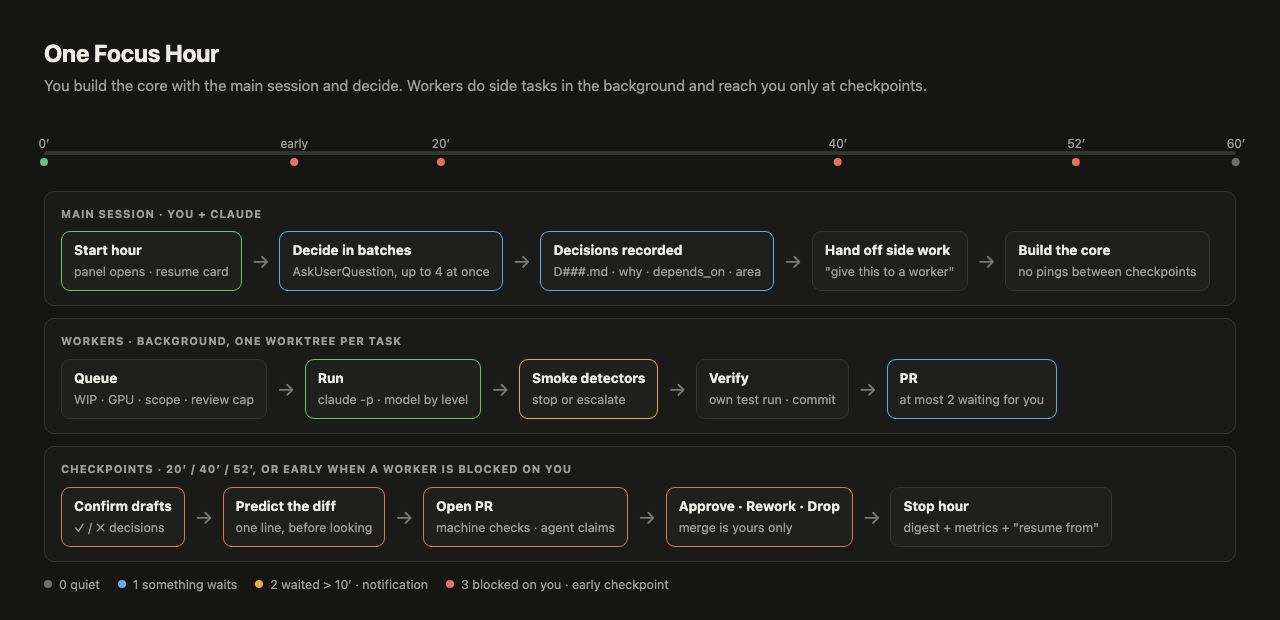
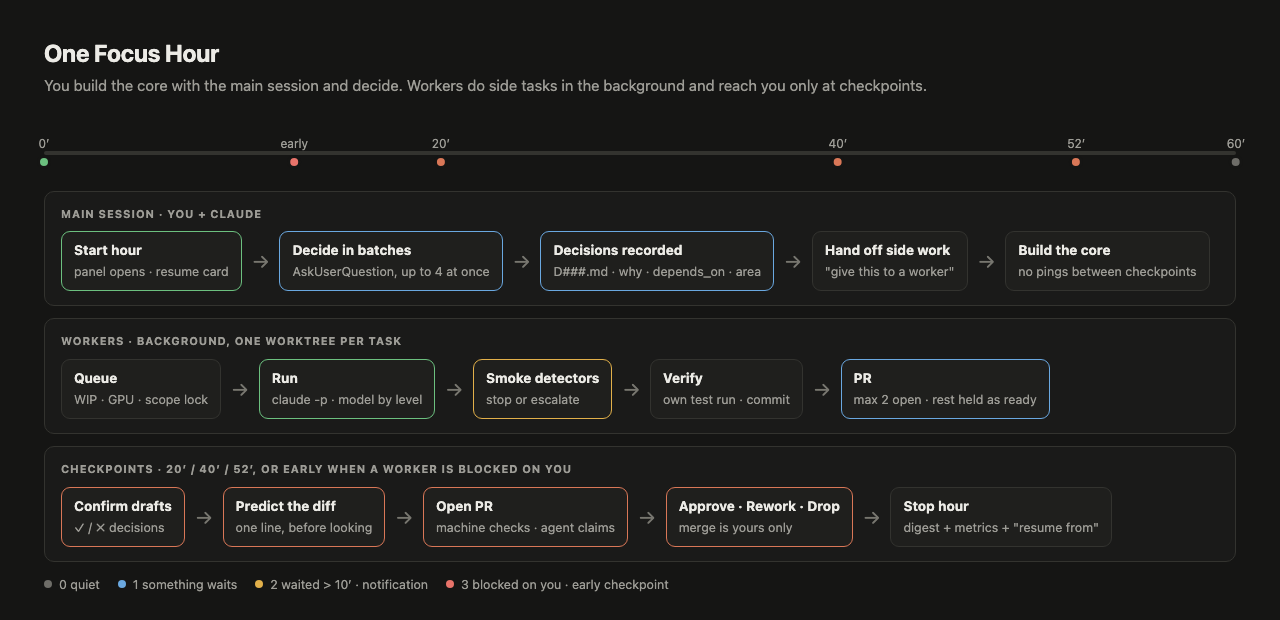
Review cap holds PRs, not workers: finished work waits as ready and opens a PR when a slot frees
Optional wip.readyBuffer caps the pile; attention turns red when finished work waits behind
a full review queue (attention.readyWarn).

Changed region(s): [[0.1562, 0.5823, 0.8125, 0.6742]]

diff --git a/docs/images/flows.html b/docs/images/flows.html
@@ -66,11 +66,11 @@
   <div class="lane">
     <div class="lane-h">Workers · background, one worktree per task</div>
     <div class="row">
-      <div class="box"><b>Queue</b><span>WIP · GPU · scope · review cap</span></div><div class="arrow">→</div>
+      <div class="box"><b>Queue</b><span>WIP · GPU · scope lock</span></div><div class="arrow">→</div>
       <div class="box ok"><b>Run</b><span>claude -p · model by level</span></div><div class="arrow">→</div>
       <div class="box warn"><b>Smoke detectors</b><span>stop or escalate</span></div><div class="arrow">→</div>
       <div class="box"><b>Verify</b><span>own test run · commit</span></div><div class="arrow">→</div>
-      <div class="box info"><b>PR</b><span>at most 2 waiting for you</span></div>
+      <div class="box info"><b>PR</b><span>max 2 open · rest held as ready</span></div>
     </div>
   </div>
   <div class="lane">
@@ -89,7 +89,7 @@
 <!-- 2. WORKER -->
 <section id="worker">
   <h1>A worker task, end to end</h1>
-  <div class="sub">The worker is a foreman: each task gets its own git worktree and its own headless Claude, and nothing reaches you faster than you review.</div>
+  <div class="sub">The worker is a foreman: each task gets its own git worktree and its own headless Claude. Workers never wait on you, but PRs reach you only as fast as you review.</div>
   <div class="lane">
     <div class="lane-h">1 · Dispatch</div>
     <div class="row">
@@ -105,7 +105,7 @@
       <div class="box"><b>WIP</b><span>running &lt; 3</span></div>
       <div class="box"><b>Resource</b><span>gpu: 1 job at a time</span></div>
       <div class="box"><b>Scope lock</b><span>no other task, no file you are editing</span></div>
-      <div class="box"><b>Review cap</b><span>&lt; 2 PRs waiting for you</span></div>
+      <div class="box"><b>Pile limit</b><span>optional cap on finished work</span></div>
       <div class="box"><b>Decision alive</b><span>else ⏸ paused</span></div>
     </div>
   </div>
@@ -128,7 +128,7 @@
       <div class="row">
         <div class="box"><b>Own test run</b><span>never trusts the agent</span></div><div class="arrow">→</div>
         <div class="box"><b>Commit</b><span>by the worker</span></div><div class="arrow">→</div>
-        <div class="box info"><b>PR #15</b><span>when the cap has room</span></div>
+        <div class="box info"><b>PR #15</b><span>max 2 open · the rest wait as ready</span></div>
       </div>
       <div class="note">PR body: <b>machine checks</b> (scope, tests, mocks, diff, test run) apart from <b>agent claims</b>, plus ⚠ stale.</div>
       <div class="row" style="margin-top:8px">

diff --git a/ui/index.html b/ui/index.html
@@ -140,7 +140,7 @@ let graph = null
 const DCOLOR = { active: 'var(--ok)', draft: 'var(--info)', dead: 'var(--bad)', superseded: 'var(--idle)' }
 const DLABEL = { active: 'active', draft: 'draft', dead: 'dead · revive or re-decide', superseded: 'replaced' }
 const TCOLOR = { paused: 'var(--idle)', queued: 'var(--idle)', running: 'var(--ok)', stopped: 'var(--bad)', ready: 'var(--info)', review: 'var(--info)' }
-const TLABEL = { paused: 'paused · its decision is dead', queued: 'queued', running: 'running', stopped: 'stopped', ready: 'finishing', review: 'waiting for review' }
+const TLABEL = { paused: 'paused · its decision is dead', queued: 'queued', running: 'running', stopped: 'stopped', ready: 'done · waits for a PR slot', review: 'waiting for review' }
 
 async function act(args) {
   const r = await fetch('/api/act', { method: 'POST', headers: { 'content-type': 'application/json' }, body: JSON.stringify({ args }) }).then(r => r.json())

diff --git a/SPEC.md b/SPEC.md
@@ -66,7 +66,7 @@ working (as text) if mods are unavailable.
   "checkpointWindowMinutes": 3,
   "attention": { "mode": "hybrid", "waitWarnMinutes": 10, "minGapMinutes": 10 }, // hybrid | fixed
   "paneOutsideCheckpoint": "collapsed", // full | collapsed | hidden
-  "wip": { "running": 3, "reviewCap": 2 },
+  "wip": { "running": 3, "reviewCap": 2, "readyBuffer": null }, // PRs waiting for you · finished work held back
   "resources": {},                      // e.g. { "gpu": 1 } — max concurrent tasks holding it
   "levels": {
     "L1": { "model": "haiku",  "effort": "low",    "maxTurns": 30 },
@@ -152,9 +152,12 @@ A queued task starts when all hold:
 - running tasks < `wip.running`;
 - each of its `resources` has a free slot;
 - its scope does not overlap a running task's scope, nor a file the main checkout has modified (scope lock);
-- (focus mode) tasks waiting for review < `reviewCap`.
+- (optional) finished-but-unpublished tasks < `wip.readyBuffer` (unset: no limit).
 
-A finished task is committed and held as `ready`; it is pushed and gets a PR only while waiting-for-review < `reviewCap`.
+The review cap holds PRs, not workers: a finished task is committed and held as `ready`; it is pushed and gets a PR
+only while PRs waiting for review < `reviewCap`, oldest first. So workers never idle on you, and you never face more
+than `reviewCap` open PRs; when finished work piles up behind a full queue (`attention.readyWarn`), the pane pulls a
+checkpoint early.
 
 ### 6.3 Run
 

diff --git a/docs/ARCHITECTURE.md b/docs/ARCHITECTURE.md
@@ -97,7 +97,7 @@ stateDiagram-v2
     running --> queued: technical stop, level up
     running --> stopped: safety stop
     running --> ready: done + tests
-    ready --> review: PR opened
+    ready --> review: PR slot free
     review --> approved: Approve
     review --> queued: Rework
     review --> dropped: Drop
@@ -105,8 +105,9 @@ stateDiagram-v2
     stopped --> dropped: Drop
 ```
 
-- **Gates**: fewer than 3 running, the GPU (or other resource) is free, no other task or open edit of yours touches
-  the same files, and fewer than 2 PRs are waiting for you.
+- **Gates**: fewer than 3 running, the GPU (or other resource) is free, and no other task or open edit of yours
+  touches the same files. **Review cap**: at most 2 PRs wait for you; further finished work stays `ready` (committed,
+  not pushed) and becomes a PR as soon as you approve or drop one, so workers never wait on you.
 - **Safety stop**: an edit outside the task's scope, a deleted existing test, an irreversible command, a diff over 300
   lines. **Technical stop**: the same error 3 times, over 60 tool calls, failing tests; the task reruns one level up.
 
